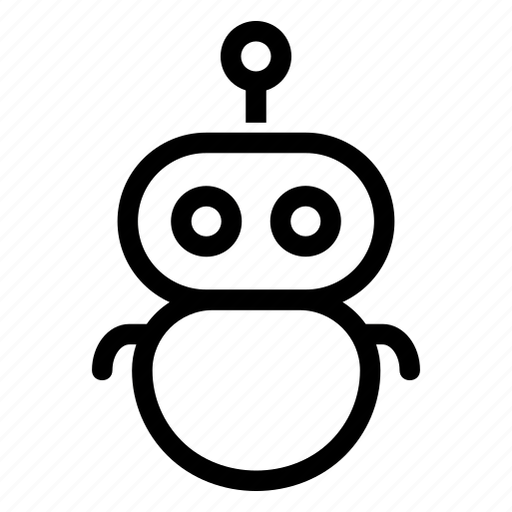
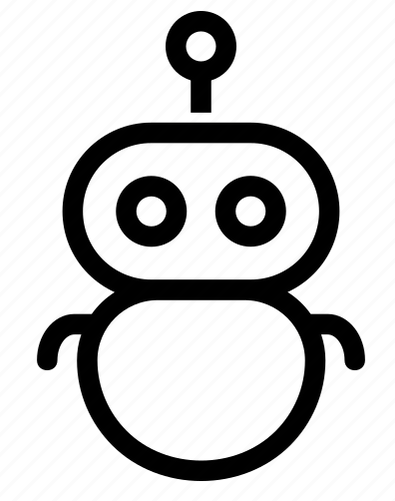
added mentor pics

Changed region(s): [[0.0911, 0.0, 0.9418, 0.9581]]

diff --git a/_site/about/index.html b/_site/about/index.html
@@ -129,7 +129,7 @@
   </div>
 </div>
 
-<div class="row" style="flex-wrap: nowrap">
+<div class="row" style="flex-wrap: nowrap; margin-bottom: 30px">
   <div class="col-lg-3">
     <div class="card">
       <img src="/images/officers/2021-2022/henrytang.jpg" alt="Henry" style="width:100%; height: 320px" />
@@ -170,6 +170,87 @@
         <h4 style="font-size: 22px; margin-top: 16px">Dangely Canabal '23</h4>
         <p class="title" style="margin-top: -9px; margin-bottom: 20px">Tech/Design Chair</p>
         <p><button class="button"><a href="mailto: dcanabal@princeton.edu" class="color-white">Contact</a></button></p>
+      </div>
+    </div>
+  </div>
+</div>
+
+<div class="row" style="flex-wrap: nowrap; margin-bottom: 30px">
+  <div class="col-lg-3">
+    <div class="card">
+      <img src="/images/officers/2021-2022/robot.png" alt="Vicky" style="width:100%; height: 320px" />
+      <div class="officer-container">
+        <h2>Vicky Feng '24</h2>
+        <p class="title" style="margin-top: -30px; margin-bottom: 20px">COSCON Advisor</p>
+        <p><button class="button"><a href="mailto: vyfeng@princeton.edu" class="color-white">Contact</a></button></p>
+      </div>
+    </div>
+  </div>
+
+  <div class="col-lg-3">
+    <div class="card">
+      <img src="/images/officers/2021-2022/younghayoo.jpg" alt="Young Ha" style="width:100%; height: 320px" />
+      <div class="officer-container">
+        <h4 style="font-size: 25px; margin-top: 16px">Young Ha Yoo '24</h4>
+        <p class="title" style="margin-top: -10px; margin-bottom: 19px">Career/Course Mentor</p>
+        <p><button class="button"><a href="mailto: yyoo@princeton.edu" class="color-white">Contact</a></button></p>
+      </div>
+    </div>
+  </div>
+
+  <div class="col-lg-3">
+    <div class="card">
+      <img src="/images/officers/2021-2022/adityagollapudi.jpg" alt="Aditya" style="width:100%; height: 320px" />
+      <div class="officer-container">
+        <h4 style="font-size: 23px; margin-top: 16px">Aditya Gollapudi '23</h4>
+        <p class="title" style="margin-top: -10px; margin-bottom: 22px">Career/Course Mentor</p>
+        <p><button class="button"><a href="mailto: adityakg@princeton.edu" class="color-white">Contact</a></button></p>
+      </div>
+    </div>
+  </div>
+  
+  <div class="col-lg-3">
+    <div class="card">
+      <img src="/images/officers/2021-2022/haoyuanhe.jpg" alt="Haoyuan" style="width:100%; height: 320px" />
+      <div class="officer-container">
+        <h4 style="font-size: 24px; margin-top: 15px">Haoyuan He '22</h4>
+        <p class="title" style="margin-top: -9px; margin-bottom: 20px">Career/Course Mentor</p>
+        <p><button class="button"><a href="mailto: haoyuanh@princeton.edu" class="color-white">Contact</a></button></p>
+      </div>
+    </div>
+  </div>
+</div>
+
+<div class="row" style="flex-wrap: nowrap; margin-bottom: 30px">
+  <div class="col-lg-3">
+    <div class="card">
+      <img src="/images/officers/2021-2022/hollisma.jpg" alt="Hollis" style="width:100%; height: 320px" />
+      <div class="officer-container">
+        <h2>Hollis Ma '22</h2>
+        <p class="title" style="margin-top: -30px; margin-bottom: 20px">Interview Tutor</p>
+        <p><button class="button"><a href="mailto: hollism@princeton.edu" class="color-white">Contact</a></button></p>
+      </div>
+    </div>
+  </div>
+
+  <div class="col-lg-3">
+    <div class="card">
+      <img src="/images/officers/2021-2022/hannahhuh.jpg" alt="Hannah" style="width:100%; height: 320px" />
+      <div class="officer-container">
+        <h4 style="font-size: 25px; margin-top: 16px">Hannah Huh '22</h4>
+        <p class="title" style="margin-top: -10px; margin-bottom: 19px">Interview Tutor</p>
+        <p><button class="button"><a href="mailto: hannahh@princeton.edu" class="color-white">Contact</a></button></p>
+      </div>
+    </div>
+  </div>
+
+  <div class="col-lg-3">
+    <div class="card">
+      <img src="/images/officers/2021-2022/robot.png" alt="Chloe" style="width:100%; height: 320px" />
+      <div class="officer-container">
+        <h4 style="font-size: 25px; margin-top: 16px">Chloe Chen '23</h4>
+        <p class="title" style="margin-top: -10px; margin-bottom: 19px">Interview Tutor</p>
+        <p><button class="button"><a href="mailto: cc68@princeton.edu" class="color-white">Contact</a></button></p>
       </div>
     </div>
   </div>
